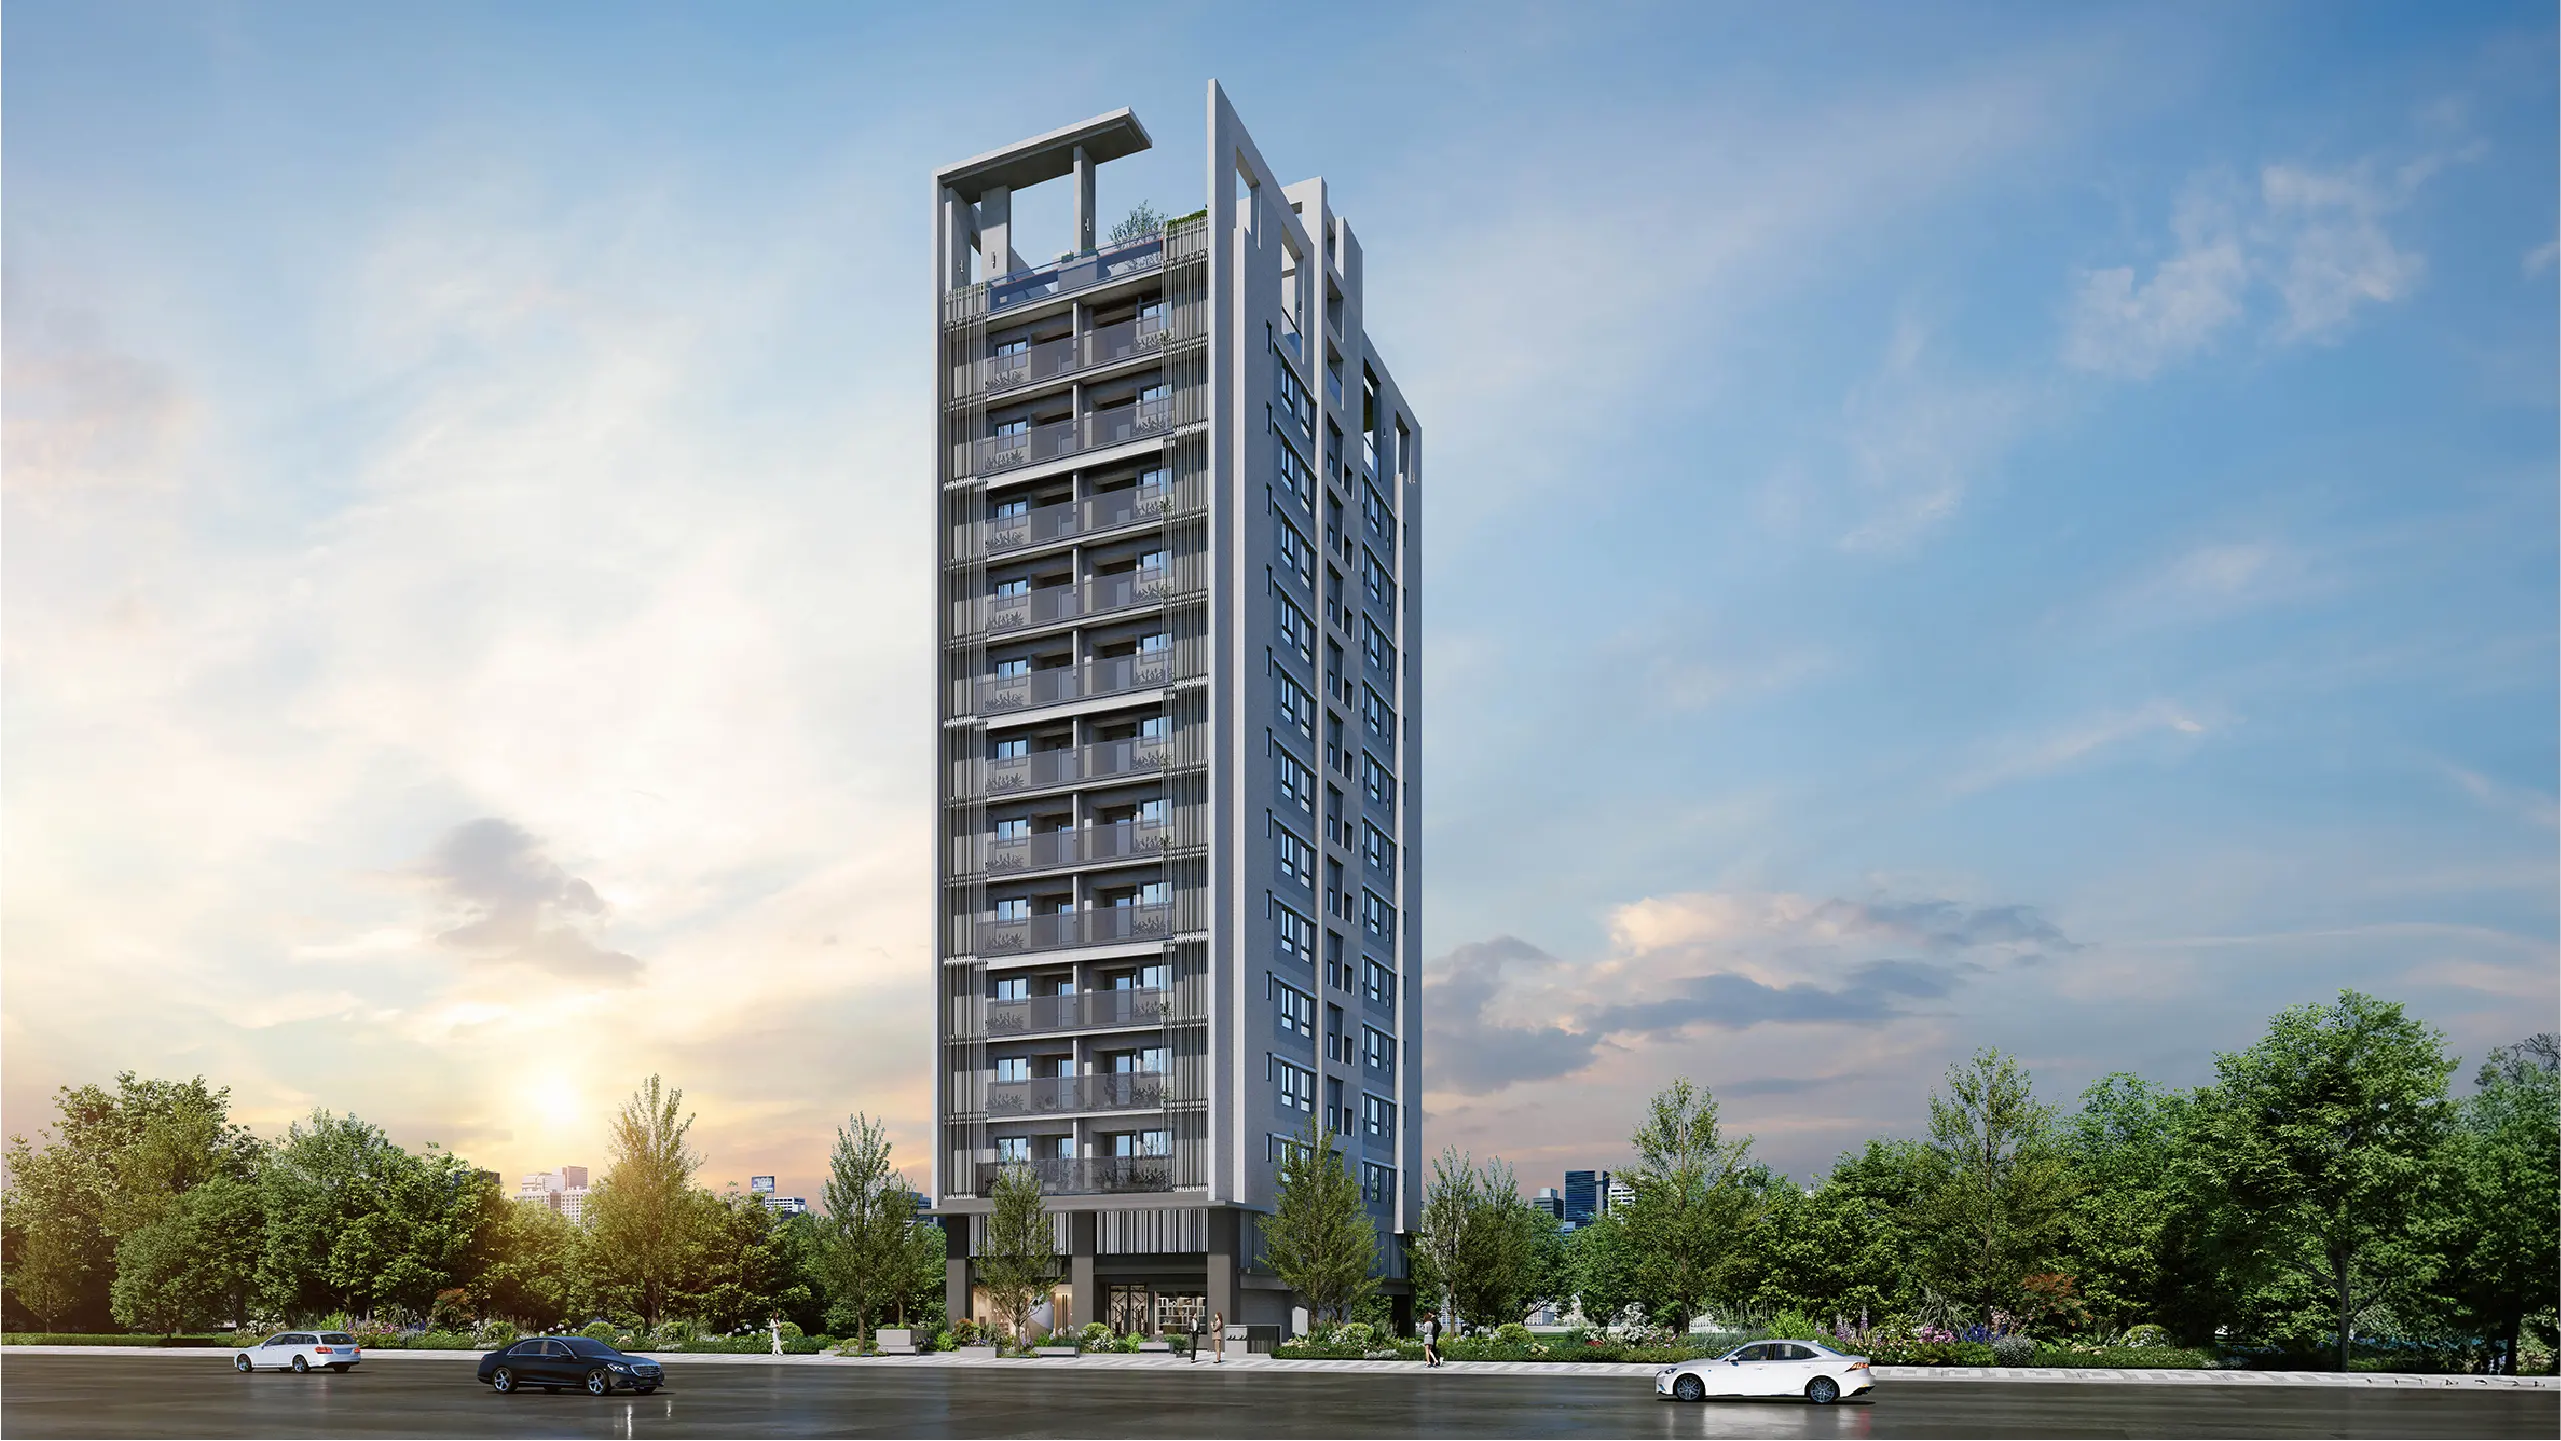
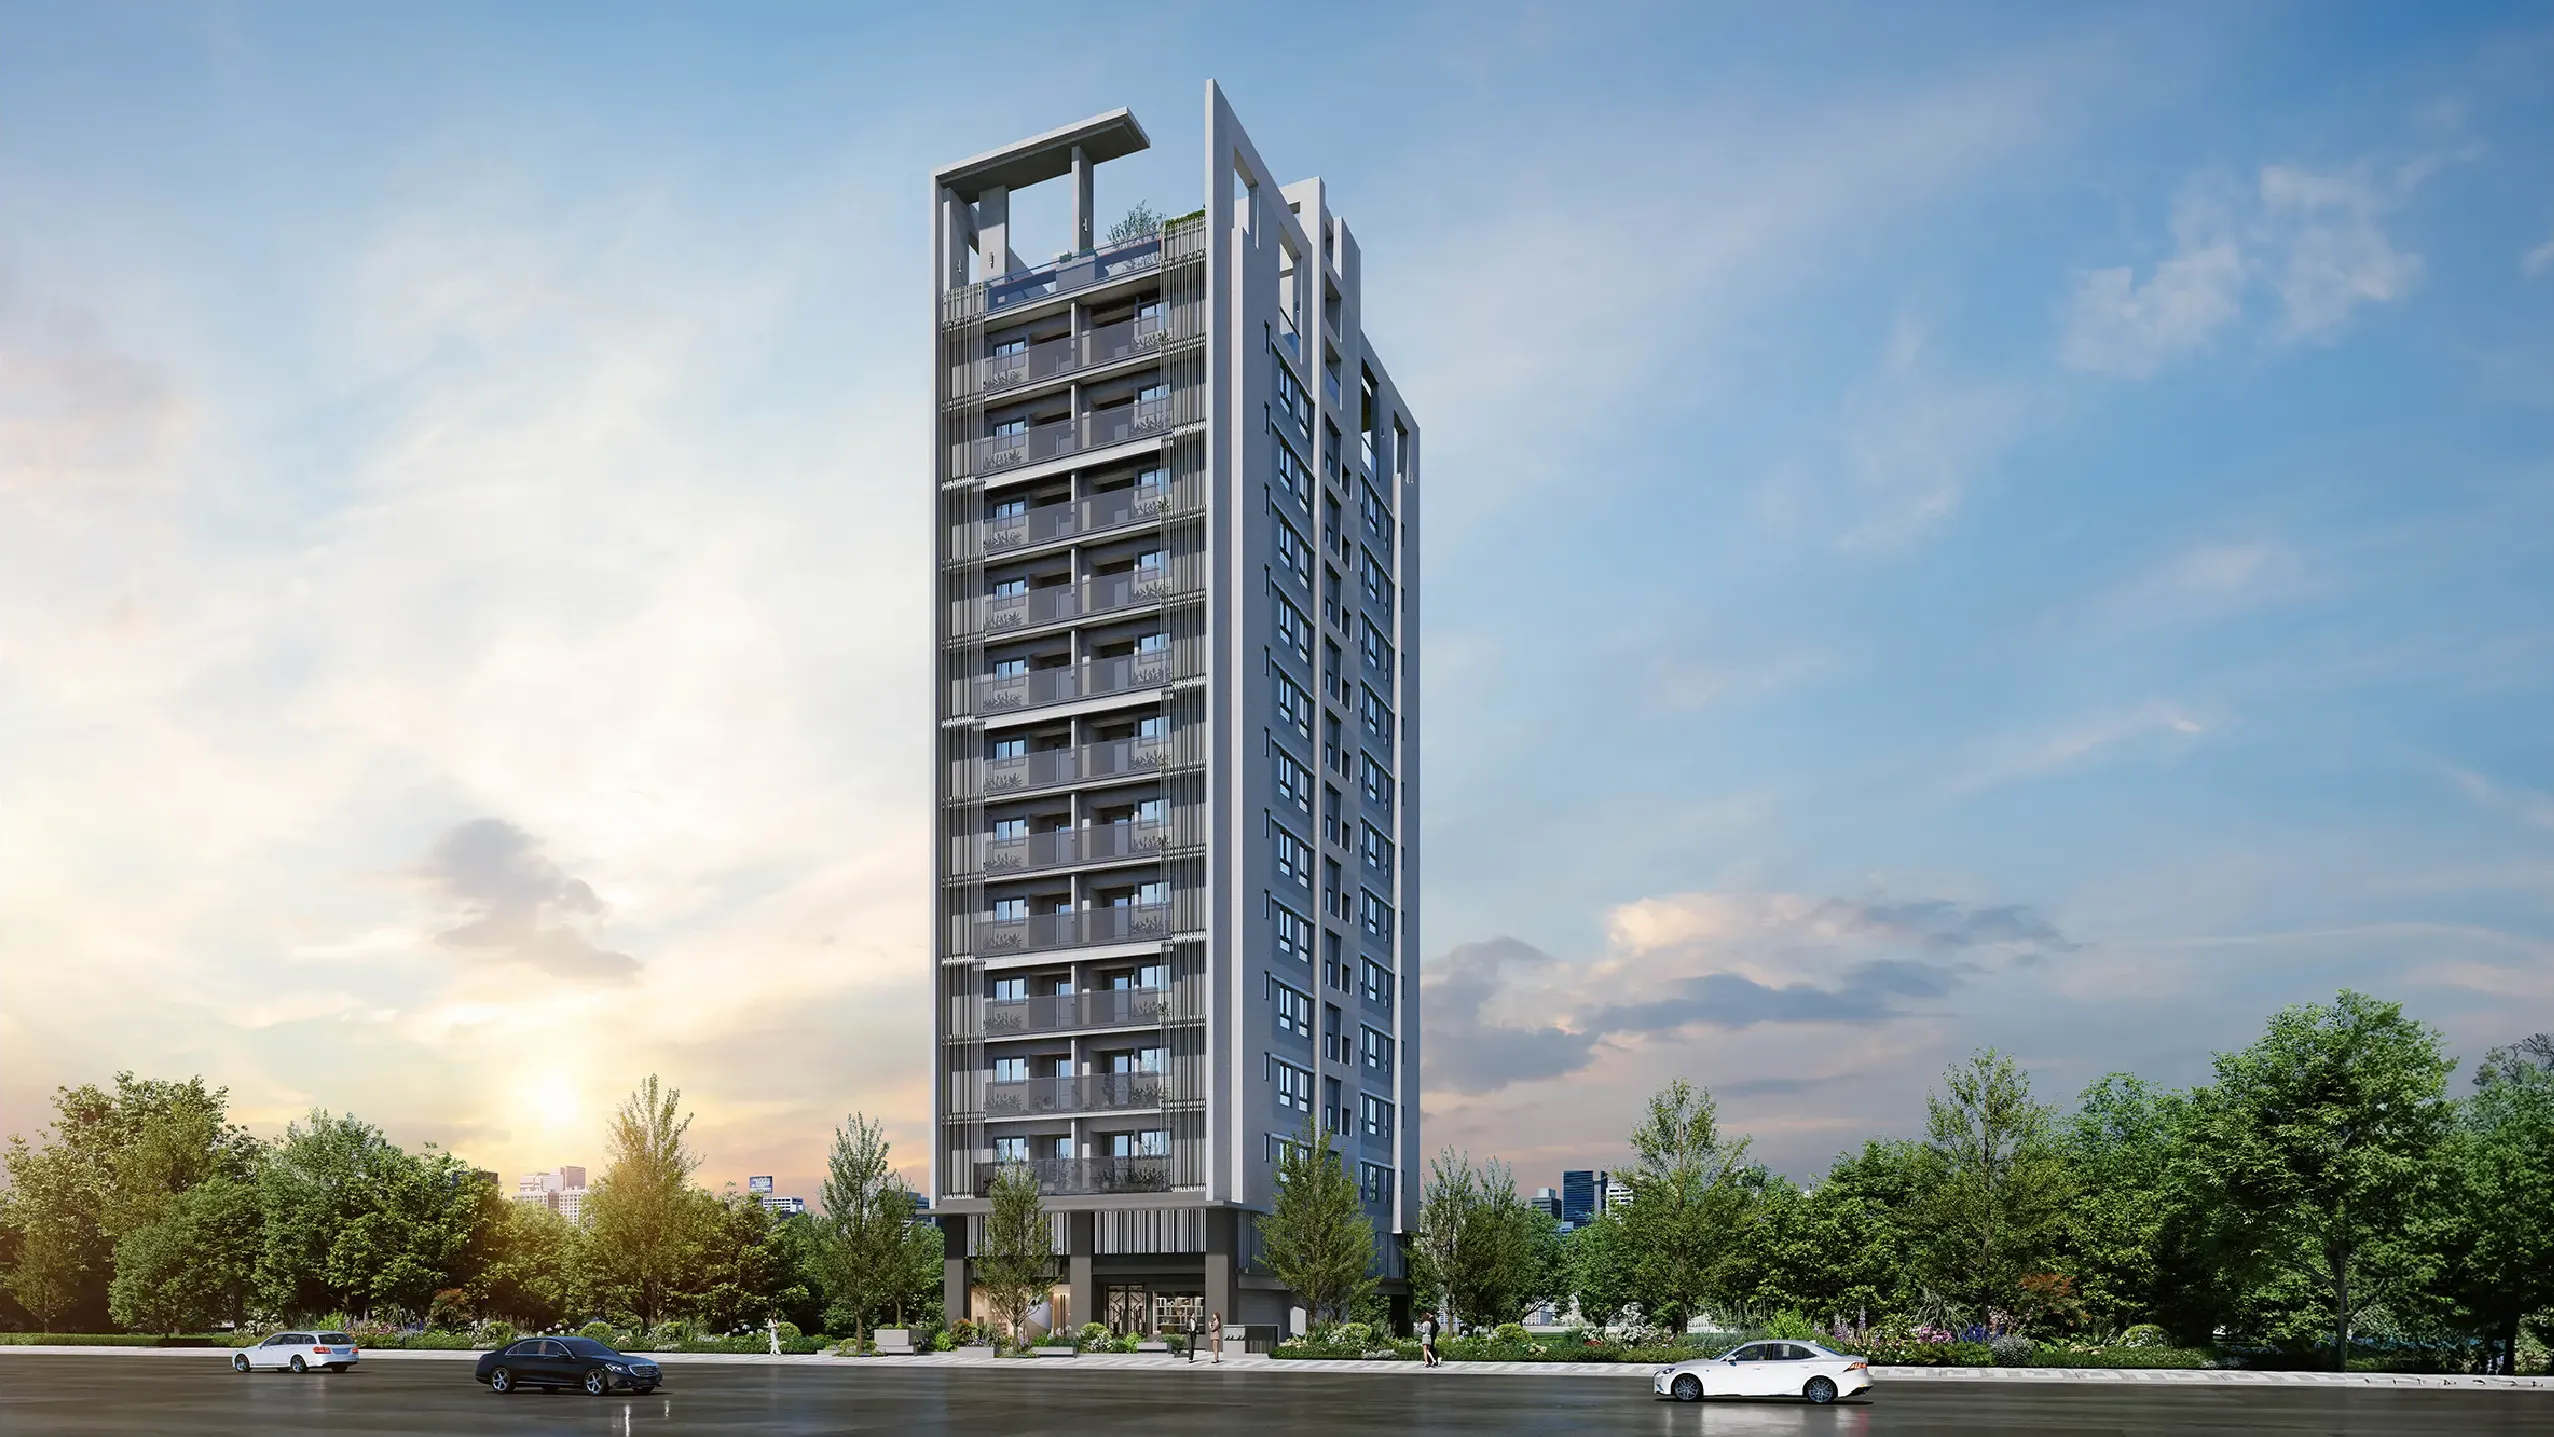
日夜景切換、家配檔名、團隊作品名修改

Changed region(s): [[0.0, 0.1225, 1.0, 1.0]]

diff --git a/src/components/Floor/floorFurniture/FloorFurniture.vue b/src/components/Floor/floorFurniture/FloorFurniture.vue
@@ -48,30 +48,30 @@ const furnitureMap: Record<
   { img: string; textImg: string; icon: string; className: string; textImgClassName: string }
 > = {
   '3F-12F-A': {
-    img: new URL('@/assets/img/building/A@2x.webp', import.meta.url).href,
+    img: new URL('@/assets/img/building/a_color.webp', import.meta.url).href,
     textImg: new URL('@/assets/img/building/a_text.png', import.meta.url).href,
-    icon: new URL('@/assets/img/building/A_icon.svg', import.meta.url).href,
+    icon: new URL('@/assets/img/building/a_icon.svg', import.meta.url).href,
     className: '3F-12F-A',
     textImgClassName: 'text-3F-12F-A',
   },
   '3F-12F-B': {
-    img: new URL('@/assets/img/building/B@2x.webp', import.meta.url).href,
+    img: new URL('@/assets/img/building/b_color.webp', import.meta.url).href,
     textImg: new URL('@/assets/img/building/b_text.png', import.meta.url).href,
-    icon: new URL('@/assets/img/building/B_icon.svg', import.meta.url).href,
+    icon: new URL('@/assets/img/building/b_icon.svg', import.meta.url).href,
     className: '3F-12F-B',
     textImgClassName: 'text-3F-12F-B',
   },
   '3F-12F-C': {
-    img: new URL('@/assets/img/building/C@2x.webp', import.meta.url).href,
+    img: new URL('@/assets/img/building/c_color.webp', import.meta.url).href,
     textImg: new URL('@/assets/img/building/c_text.png', import.meta.url).href,
-    icon: new URL('@/assets/img/building/C_icon.svg', import.meta.url).href,
+    icon: new URL('@/assets/img/building/c_icon.svg', import.meta.url).href,
     className: '3F-12F-C',
     textImgClassName: 'text-3F-12F-C',
   },
   '3F-12F-D': {
-    img: new URL('@/assets/img/building/D@2x.webp', import.meta.url).href,
+    img: new URL('@/assets/img/building/d_color.webp', import.meta.url).href,
     textImg: new URL('@/assets/img/building/d_text.min.svg', import.meta.url).href,
-    icon: new URL('@/assets/img/building/D_icon.svg', import.meta.url).href,
+    icon: new URL('@/assets/img/building/d_icon.svg', import.meta.url).href,
     className: '3F-12F-D',
     textImgClassName: 'text-3F-12F-D',
   },

diff --git a/src/views/team/teamThree.vue b/src/views/team/teamThree.vue
@@ -67,17 +67,17 @@ const currentImg = ref('')
 // 作品資料
 const projects = [
   {
-    name: '琢白･雍景',
+    name: '台中商業銀行總部',
     thumb: new URL('@/assets/img/team/three_p_1.webp', import.meta.url).href,
     fullImg: new URL('@/assets/img/team/three_p_b_1.webp', import.meta.url).href,
   },
   {
-    name: '雍睦',
+    name: '龍巖安泰/富岡',
     thumb: new URL('@/assets/img/team/three_p_2.webp', import.meta.url).href,
     fullImg: new URL('@/assets/img/team/three_p_b_2.webp', import.meta.url).href,
   },
   {
-    name: '睿格',
+    name: '巧克力夢工廠',
     thumb: new URL('@/assets/img/team/three_p_3.webp', import.meta.url).href,
     fullImg: new URL('@/assets/img/team/three_p_b_3.webp', import.meta.url).href,
   },

diff --git a/src/views/master/building/BuildingView.vue b/src/views/master/building/BuildingView.vue
@@ -7,7 +7,7 @@
       :mode="mode"
     />
     <FloorMenu @selectFloor="handleSelectFloor" :mode="mode" />
-    <FloorDetail v-if="selectedFloor" :floor="selectedFloor" @close="selectedFloor = null" />
+    <FloorDetail v-if="selectedFloor" :floor="selectedFloor" @close="closeDetail" />
   </section>
 </template>
 
@@ -20,6 +20,11 @@ import '@/assets/scss/building/_building-view.scss'
 
 const selectedFloor = ref<string | null>(null)
 const mode = ref<'day' | 'night'>('day') // ← 這行一定要加
+
+function closeDetail() {
+  selectedFloor.value = null;
+  mode.value='day'; // 返回主視圖時重設為日間模式
+}
 
 function handleSelectFloor(floorId: string) {
   selectedFloor.value = floorId
